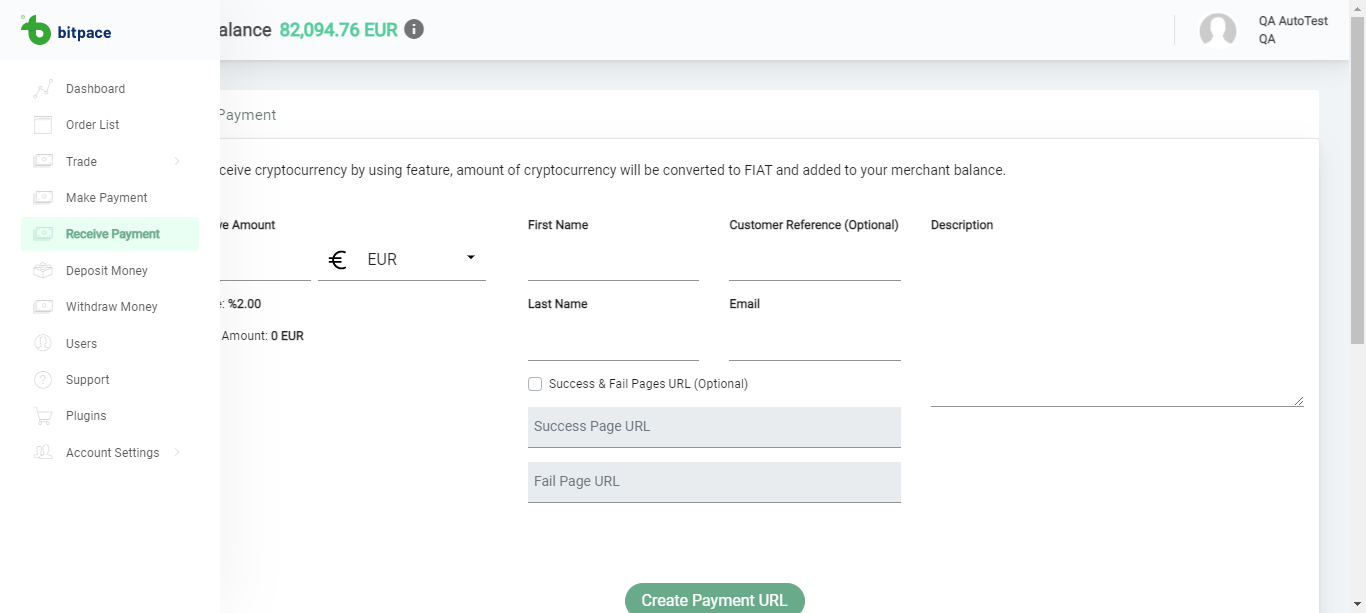
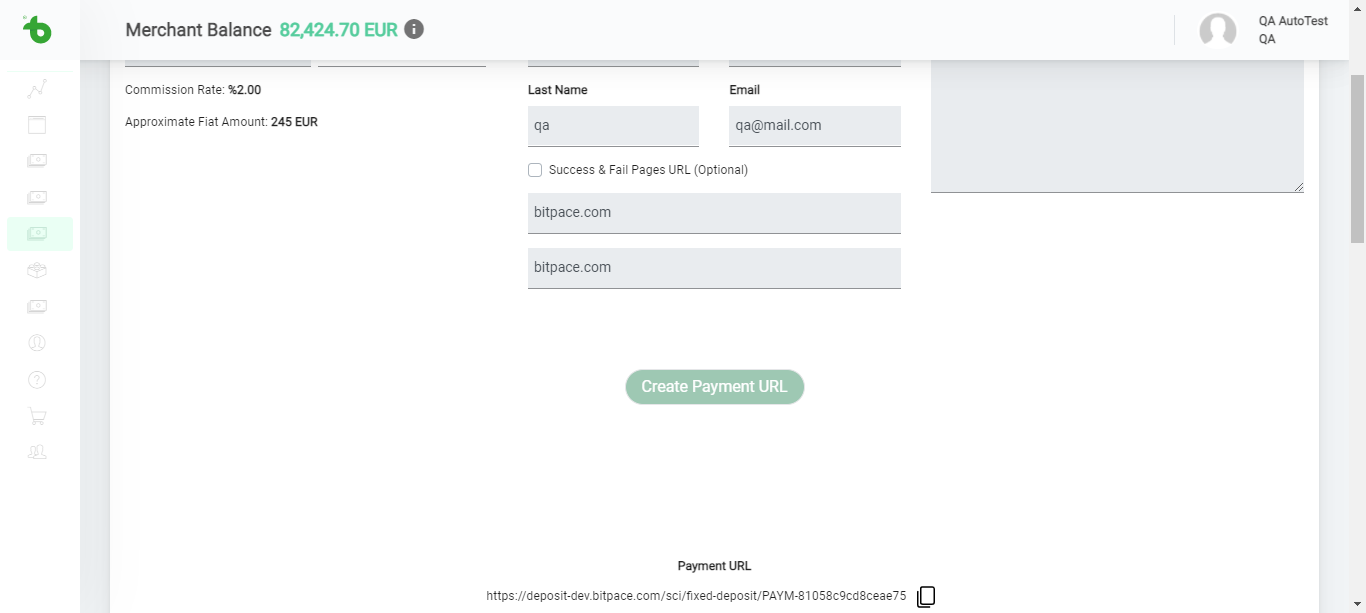
06/02/2021

diff --git a/target/default-html-reports/report.js b/target/default-html-reports/report.js
@@ -80,8 +80,7 @@ formatter.match({
   "location": "com.bitpace.step_definitions.ReceivePaymentStepDef.user_should_be_able_to_fill_in_the_blank()"
 });
 formatter.result({
-  "error_message": "java.lang.NullPointerException\r\n\tat java.base/java.util.Objects.requireNonNull(Objects.java:222)\r\n\tat org.openqa.selenium.interactions.Actions.\u003cinit\u003e(Actions.java:65)\r\n\tat com.bitpace.step_definitions.ReceivePaymentStepDef.user_should_be_able_to_fill_in_the_blank(ReceivePaymentStepDef.java:35)\r\n\tat ✽.user should be able to fill in the blank(file:///C:/Users/Gökhan/IdeaProjects/BitPace_UI/src/test/resources/features/ReceivePayment.feature:16)\r\n",
-  "status": "failed"
+  "status": "passed"
 });
 formatter.step({
   "name": "user click Create Payment URL button",
@@ -91,7 +90,7 @@ formatter.match({
   "location": "com.bitpace.step_definitions.ReceivePaymentStepDef.user_click_Create_Payment_URL_button()"
 });
 formatter.result({
-  "status": "skipped"
+  "status": "passed"
 });
 formatter.step({
   "name": "user see \"Payment URL\" text and \"Create New\" button",
@@ -101,7 +100,7 @@ formatter.match({
   "location": "com.bitpace.step_definitions.ReceivePaymentStepDef.user_see_text_and_button(java.lang.String,java.lang.String)"
 });
 formatter.result({
-  "status": "skipped"
+  "status": "passed"
 });
 formatter.step({
   "name": "user click copy icon",
@@ -111,7 +110,7 @@ formatter.match({
   "location": "com.bitpace.step_definitions.ReceivePaymentStepDef.user_click_copy_icon()"
 });
 formatter.result({
-  "status": "skipped"
+  "status": "passed"
 });
 formatter.step({
   "name": "user see \"Copy URL\" txt",
@@ -121,7 +120,8 @@ formatter.match({
   "location": "com.bitpace.step_definitions.ReceivePaymentStepDef.user_see_txt(java.lang.String)"
 });
 formatter.result({
-  "status": "skipped"
+  "error_message": "org.junit.ComparisonFailure: expected:\u003c[Copy URL]\u003e but was:\u003c[URL Copied]\u003e\r\n\tat org.junit.Assert.assertEquals(Assert.java:117)\r\n\tat org.junit.Assert.assertEquals(Assert.java:146)\r\n\tat com.bitpace.step_definitions.ReceivePaymentStepDef.user_see_txt(ReceivePaymentStepDef.java:64)\r\n\tat ✽.user see \"Copy URL\" txt(file:///C:/Users/Gökhan/IdeaProjects/BitPace_UI/src/test/resources/features/ReceivePayment.feature:20)\r\n",
+  "status": "failed"
 });
 formatter.embedding("image/png", "embedded0.png", "screenshot");
 formatter.after({

diff --git a/src/test/java/com/bitpace/step_definitions/ReceivePaymentStepDef.java b/src/test/java/com/bitpace/step_definitions/ReceivePaymentStepDef.java
@@ -32,15 +32,11 @@ public class ReceivePaymentStepDef {
     public void user_should_be_able_to_fill_in_the_blank() {
         ReceivePaymentPage receivePaymentPage=new ReceivePaymentPage();
 
-        Actions act=new Actions(Driver.get());
-        act.click(receivePaymentPage.currencyAmount)
-                .sendKeys("250",Keys.TAB)
-                .sendKeys("Test",Keys.TAB)
-                .sendKeys("",Keys.TAB)
-                .sendKeys("test",Keys.TAB)
-                .sendKeys("qa@test.com",Keys.TAB).build().perform();
-
-
+        receivePaymentPage.currencyAmount.sendKeys("250");
+        receivePaymentPage.firstName.sendKeys("Test");
+        receivePaymentPage.lastName.sendKeys("qa");
+        receivePaymentPage.email.sendKeys("qa@mail.com");
+        BrowserUtils.waitFor(2);
 
     }
 

diff --git a/src/test/java/com/bitpace/pages/ReceivePaymentPage.java b/src/test/java/com/bitpace/pages/ReceivePaymentPage.java
@@ -30,6 +30,17 @@ public class ReceivePaymentPage extends BasePage{
     @FindBy(css = "[class='d-block text-success']")
     public WebElement URLCopiedText;
 
+    @FindBy(css = "[name='firstName']")
+    public WebElement firstName;
+
+    @FindBy(css = "[name='lastName']")
+    public WebElement lastName;
+
+    @FindBy(css = "[name='email']")
+    public WebElement email;
+
+
+
 
 
 }
